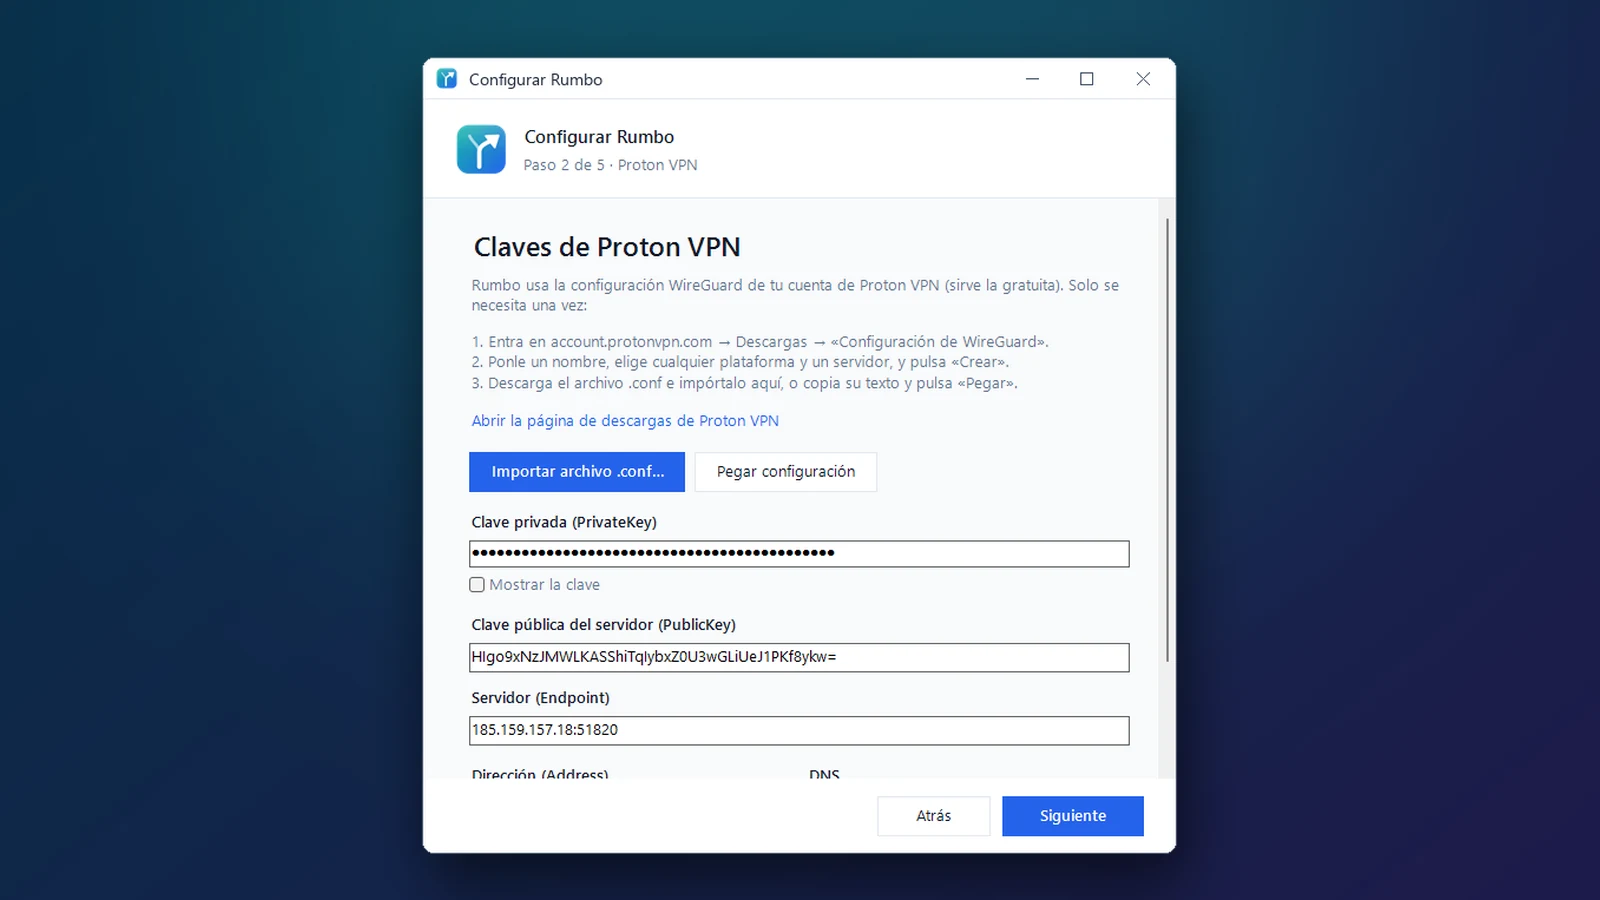
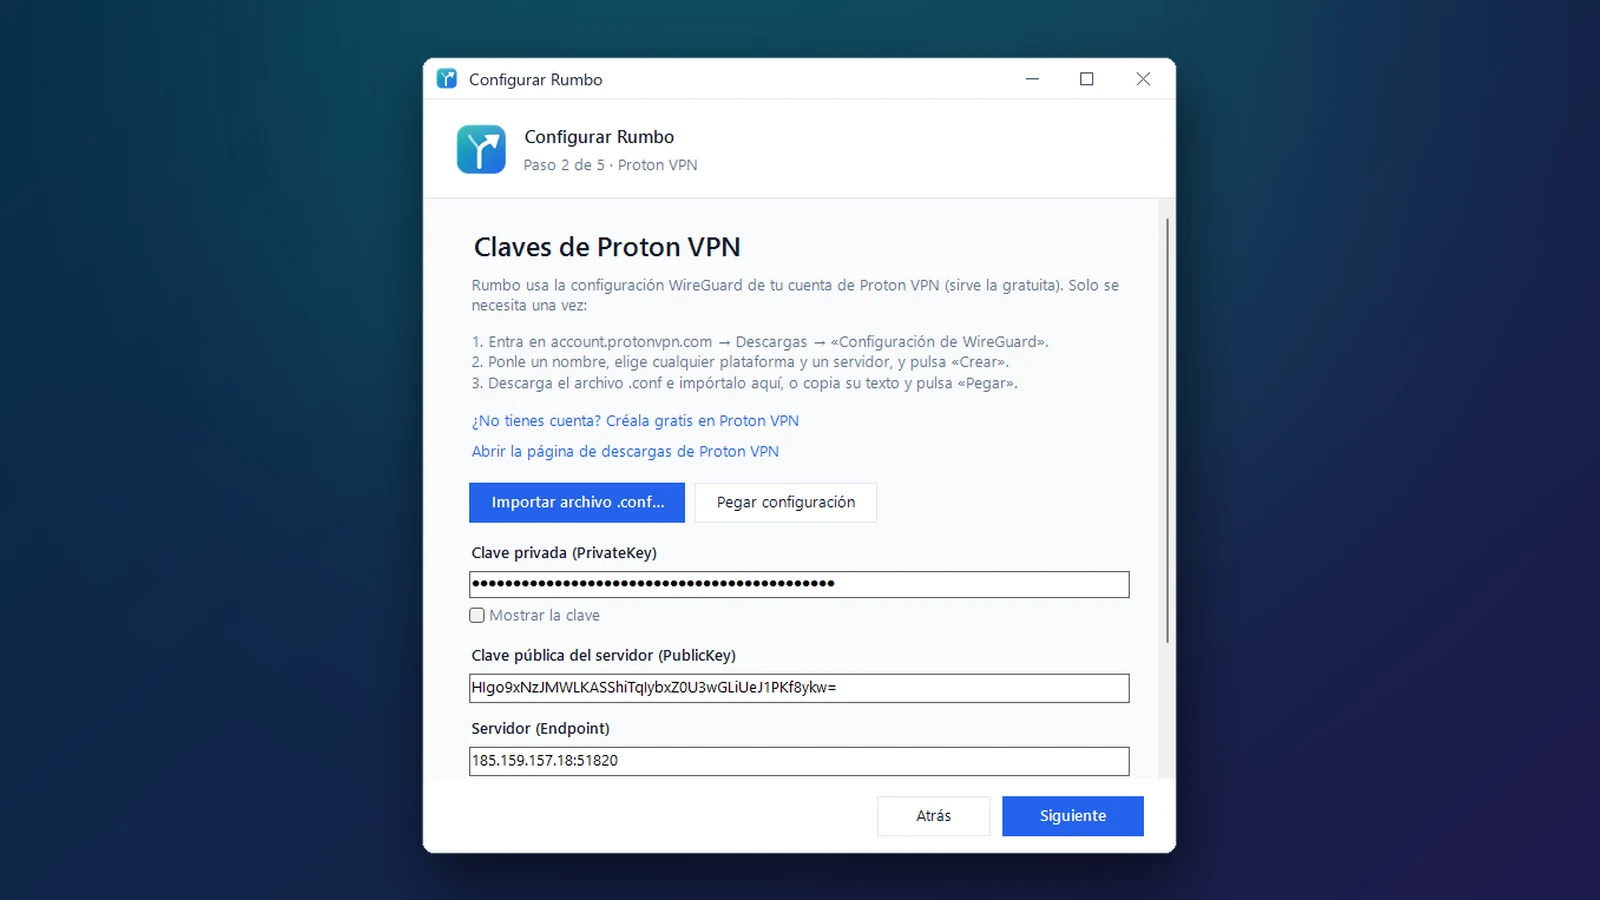
Añade el enlace para crear una cuenta gratis de Proton VPN en la página de Rumbo

Changed region(s): [[0.2812, 0.4356, 0.7188, 0.8711]]

diff --git a/src/RumboPage.svelte b/src/RumboPage.svelte
@@ -11,7 +11,7 @@
   import { motionEnabled, scrollPageTo, useSmoothScroller } from "./lib/scroll/pageScroll";
   import { gamepadStore } from "./lib/stores/gamepad.svelte";
   import type { ViewerImage } from "./lib/viewer/types";
-  import { PROTON_DOWNLOADS_URL, rumboCopy } from "./lib/data/rumbo";
+  import { PROTON_DOWNLOADS_URL, PROTON_SIGNUP_URL, rumboCopy } from "./lib/data/rumbo";
   import {
     downloadInstaller,
     loadManifest,
@@ -555,18 +555,31 @@
             <p class="mt-2 text-xs text-muted-foreground" data-testid="rumbo-free-note">
               {copy.freeNote}
             </p>
-            <button
-              type="button"
-              class="group mt-3 inline-flex items-center gap-1.5 text-xs font-semibold text-primary cursor-pointer"
-              onclick={() => scrollToElement(guidePanel, GUIDE_SCROLL_GAP)}
-            >
-              <Icon icon="mdi:key-outline" class="w-4 h-4 shrink-0" />
-              <span class="group-hover:underline">{copy.guideLink}</span>
-              <Icon
-                icon="mdi:arrow-down"
-                class="w-3.5 h-3.5 shrink-0 transition-transform group-hover:translate-y-0.5"
-              />
-            </button>
+            <div class="mt-3 flex flex-wrap gap-x-5 gap-y-2">
+              <button
+                type="button"
+                class="group inline-flex items-center gap-1.5 text-xs font-semibold text-primary cursor-pointer"
+                onclick={() => scrollToElement(guidePanel, GUIDE_SCROLL_GAP)}
+              >
+                <Icon icon="mdi:key-outline" class="w-4 h-4 shrink-0" />
+                <span class="group-hover:underline">{copy.guideLink}</span>
+                <Icon
+                  icon="mdi:arrow-down"
+                  class="w-3.5 h-3.5 shrink-0 transition-transform group-hover:translate-y-0.5"
+                />
+              </button>
+              <a
+                href={PROTON_SIGNUP_URL}
+                target="_blank"
+                rel="noopener noreferrer"
+                class="group inline-flex items-center gap-1.5 text-xs font-semibold text-primary"
+                data-testid="rumbo-signup-hero"
+              >
+                <Icon icon="mdi:account-plus-outline" class="w-4 h-4 shrink-0" />
+                <span class="group-hover:underline">{copy.signupLink}</span>
+                <Icon icon="mdi:open-in-new" class="w-3.5 h-3.5 shrink-0" />
+              </a>
+            </div>
           </div>
         </div>
 
@@ -742,16 +755,28 @@
               </div>
             {/each}
           </div>
-          <a
-            href={PROTON_DOWNLOADS_URL}
-            target="_blank"
-            rel="noopener noreferrer"
-            class="mt-5 inline-flex items-center gap-2 rounded-full bg-foreground text-background dark:bg-white dark:text-slate-950 px-4 py-2 text-sm font-bold hover:-translate-y-0.5 transition-transform"
-            data-testid="rumbo-proton-link"
-          >
-            <Icon icon="mdi:open-in-new" class="w-4 h-4" />
-            {copy.guideAction}
-          </a>
+          <div class="mt-5 flex flex-wrap gap-2">
+            <a
+              href={PROTON_SIGNUP_URL}
+              target="_blank"
+              rel="noopener noreferrer"
+              class="inline-flex items-center gap-2 rounded-full bg-gradient-to-r from-teal-500 to-blue-600 text-white px-4 py-2 text-sm font-bold shadow-lg shadow-cyan-600/20 hover:-translate-y-0.5 transition-transform"
+              data-testid="rumbo-signup-link"
+            >
+              <Icon icon="mdi:account-plus-outline" class="w-4 h-4" />
+              {copy.signupAction}
+            </a>
+            <a
+              href={PROTON_DOWNLOADS_URL}
+              target="_blank"
+              rel="noopener noreferrer"
+              class="inline-flex items-center gap-2 rounded-full bg-foreground text-background dark:bg-white dark:text-slate-950 px-4 py-2 text-sm font-bold hover:-translate-y-0.5 transition-transform"
+              data-testid="rumbo-proton-link"
+            >
+              <Icon icon="mdi:open-in-new" class="w-4 h-4" />
+              {copy.guideAction}
+            </a>
+          </div>
         </div>
       </section>
 

diff --git a/src/lib/data/rumbo.ts b/src/lib/data/rumbo.ts
@@ -3,6 +3,8 @@ import type { ViewerCopy } from "../viewer/types";
 import type { VitralFeature, VitralShot, VitralUnits } from "./vitral";
 
 export const PROTON_DOWNLOADS_URL = "https://account.protonvpn.com/downloads";
+export const PROTON_SIGNUP_URL =
+  "https://account.protonvpn.com/signup?plan=free&ref=free-plan-upsell-modal-1-usd-continue-free";
 
 export type RumboCopy = {
   pageTitle: string;
@@ -49,6 +51,8 @@ export type RumboCopy = {
   guideLead: string;
   guide: VitralFeature[];
   guideAction: string;
+  signupLink: string;
+  signupAction: string;
   footer: string;
 };
 
@@ -172,7 +176,7 @@ export const rumboCopy: Record<Locale, RumboCopy> = {
       {
         icon: "mdi:login",
         title: "Entra en tu cuenta de Proton",
-        text: "Abre account.protonvpn.com con tu cuenta, aunque sea la gratuita, y ve a Descargas.",
+        text: "Abre account.protonvpn.com con tu cuenta, aunque sea la gratuita, y ve a Descargas. Si aún no tienes una, créala gratis con el botón de abajo.",
       },
       {
         icon: "mdi:server-network",
@@ -186,6 +190,8 @@ export const rumboCopy: Record<Locale, RumboCopy> = {
       },
     ],
     guideAction: "Abrir las descargas de Proton VPN",
+    signupLink: "¿No tienes cuenta de Proton VPN? Créala gratis",
+    signupAction: "Crear una cuenta gratis",
     footer: "Rumbo es un proyecto de Erick Ramírez. No está afiliado a Proton AG.",
   },
   en: {
@@ -305,7 +311,7 @@ export const rumboCopy: Record<Locale, RumboCopy> = {
       {
         icon: "mdi:login",
         title: "Sign in to Proton",
-        text: "Open account.protonvpn.com with your account, even the free one, and go to Downloads.",
+        text: "Open account.protonvpn.com with your account, even the free one, and go to Downloads. If you don't have one yet, create it for free with the button below.",
       },
       {
         icon: "mdi:server-network",
@@ -319,6 +325,8 @@ export const rumboCopy: Record<Locale, RumboCopy> = {
       },
     ],
     guideAction: "Open Proton VPN downloads",
+    signupLink: "No Proton VPN account? Create one for free",
+    signupAction: "Create a free account",
     footer: "Rumbo is a project by Erick Ramírez. It is not affiliated with Proton AG.",
   },
 };

diff --git a/tests/e2e/rumbo.spec.ts b/tests/e2e/rumbo.spec.ts
@@ -48,6 +48,13 @@ test("the guide link brings the Proton steps into view", async ({ page }) => {
     "href",
     "https://account.protonvpn.com/downloads"
   );
+  for (const id of ["rumbo-signup-link", "rumbo-signup-hero"]) {
+    await expect(page.getByTestId(id)).toHaveAttribute(
+      "href",
+      "https://account.protonvpn.com/signup?plan=free&ref=free-plan-upsell-modal-1-usd-continue-free"
+    );
+    await expect(page.getByTestId(id)).toHaveAttribute("target", "_blank");
+  }
 });
 
 test("follows the selected language", async ({ page }) => {
